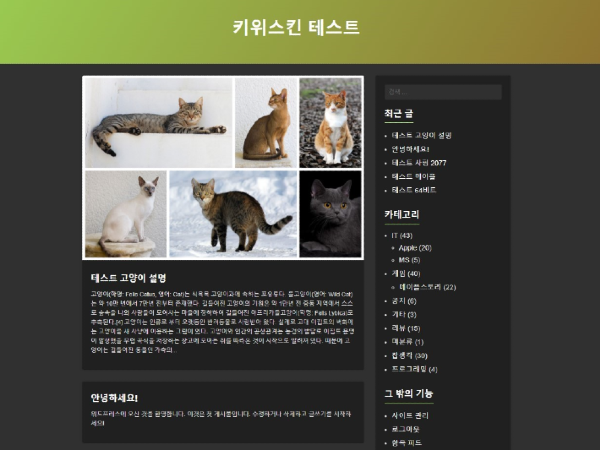
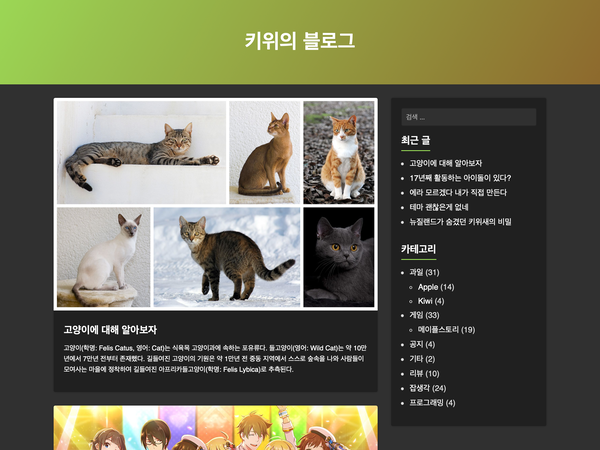
오류 수정

diff --git a/style.css b/style.css
@@ -44,7 +44,10 @@ article {
 article img {
 	width: 100%;
 	height: auto;
+	max-height: min(100vw, 400px);
 	border-radius: 4px 4px 0 0;
+	object-fit: cover;
+	object-position: center;
 }
 article h1 {
 	margin-top: 4px;

diff --git a/search.php b/search.php
@@ -25,7 +25,7 @@
                 <h1>찾을 수 없습니다</h1>
                 <hr>
                 <p>검색어와 일치하는 것이 없습니다. 다른 검색어로 다시 시도해보세요.</p>
-                <form role="search" method="get" id="searchform" class="searchform" action="http://localhost/">
+                <form role="search" method="get" id="searchform" class="searchform" action="<?php bloginfo( 'url' ); ?>">
                     <input class="search-field" type="text" placeholder="검색 …" value="" name="s" id="s">
                 </form>
             </div>

diff --git a/header.php b/header.php
@@ -6,14 +6,7 @@
     <meta http-equiv="X-UA-Compatible" content="IE=edge">
     <meta name="viewport" content="width=1024">
     <title><?php bloginfo('name'); ?> <?php wp_title(); ?></title>
-    <?php
-    if ( get_site_icon_url() != '' ) {
-        echo '<link rel="shortcut icon" href="' . get_site_icon_url() . '"/>';
-        echo '<link rel="apple-touch-icon" href="' . get_site_icon_url() . '"/>';
-    }
-    ?>
 
-    <link rel="shortcut icon" href="/path/faviconimagename.ico">
     <link rel="stylesheet" href="<?php bloginfo('stylesheet_url'); ?>">
     <?php wp_head() ; ?>
 </head>

diff --git a/sidebar.php b/sidebar.php
@@ -1,6 +1,6 @@
 <aside>
 	<div class="site-sidebar">
-		<form role="search" method="get" id="searchform" class="searchform" action="http://localhost/">
+		<form role="search" method="get" id="searchform" class="searchform" action="<?php bloginfo( 'url' ); ?>">
 			<input class="search-field" type="text" placeholder="검색 …" value="" name="s" id="s">
 		</form>
 		<?php dynamic_sidebar(); ?>
